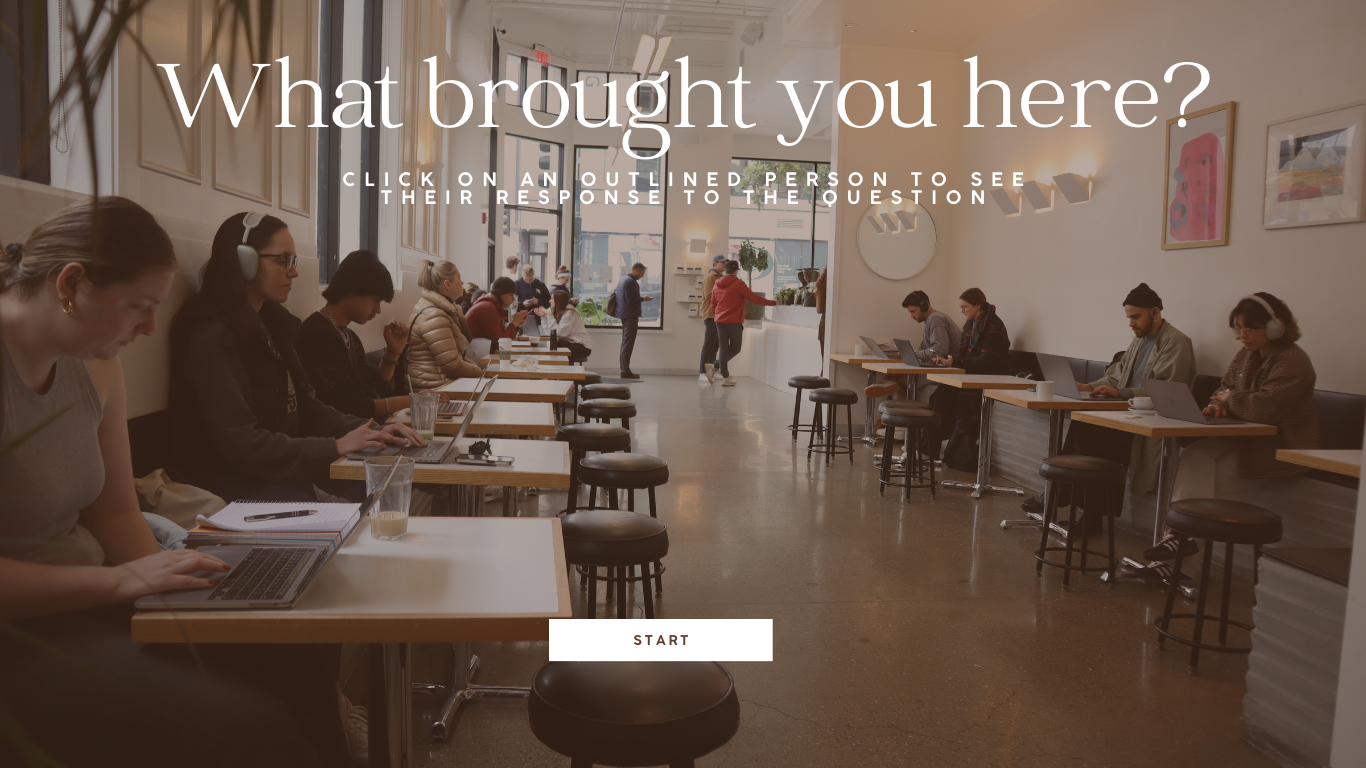
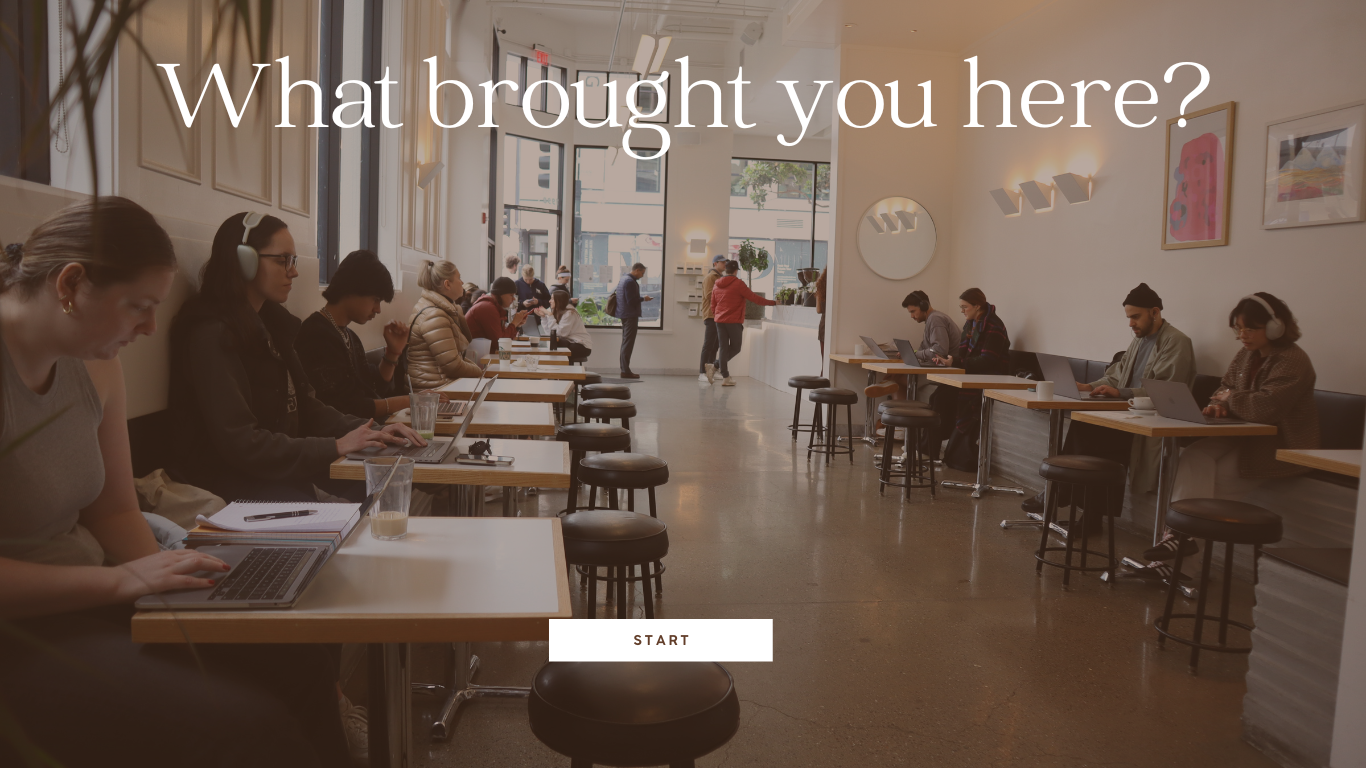
altered the first image of the interactive

Changed region(s): [[0.246, 0.2188, 0.7687, 0.2812]]

diff --git a/main.js b/main.js
@@ -15,16 +15,8 @@ showSlides();
 
 
 // coffee shop content begins
-
 var hotspots = [
-    { top: '80%', left: '40%', width: '20%', height: '20%', image: '2c.png' },
-    { top: '10%', left: '10%', width: '20%', height: '20%', image: '1c.png' },
-    { top: '10%', left: '30%', width: '15%', height: '15%', image: '3c.png' },
-    { top: '30%', left: '50%', width: '15%', height: '15%', image: '4c.png' },
-    { top: '50%', left: '70%', width: '15%', height: '15%', image: '5c.png' },
-    { top: '70%', left: '30%', width: '15%', height: '15%', image: '6c.png' },
-    { top: '70%', left: '70%', width: '15%', height: '15%', image: '7c.png' },
-    { top: '30%', left: '10%', width: '15%', height: '15%', image: '8c.png' }
+    { top: '80%', left: '40%', width: '20%', height: '20%', image: '2c.png' }
 ];
 
 var mainImage = '1c.png'; 
@@ -53,6 +45,9 @@ document.getElementById('returnButton').addEventListener('click', function() {
     document.querySelector('.container').style.backgroundImage = "url('" + mainImage + "')";
     currentImage = mainImage;
 });
+
+
+
 // coffee shop content ends
 
 
